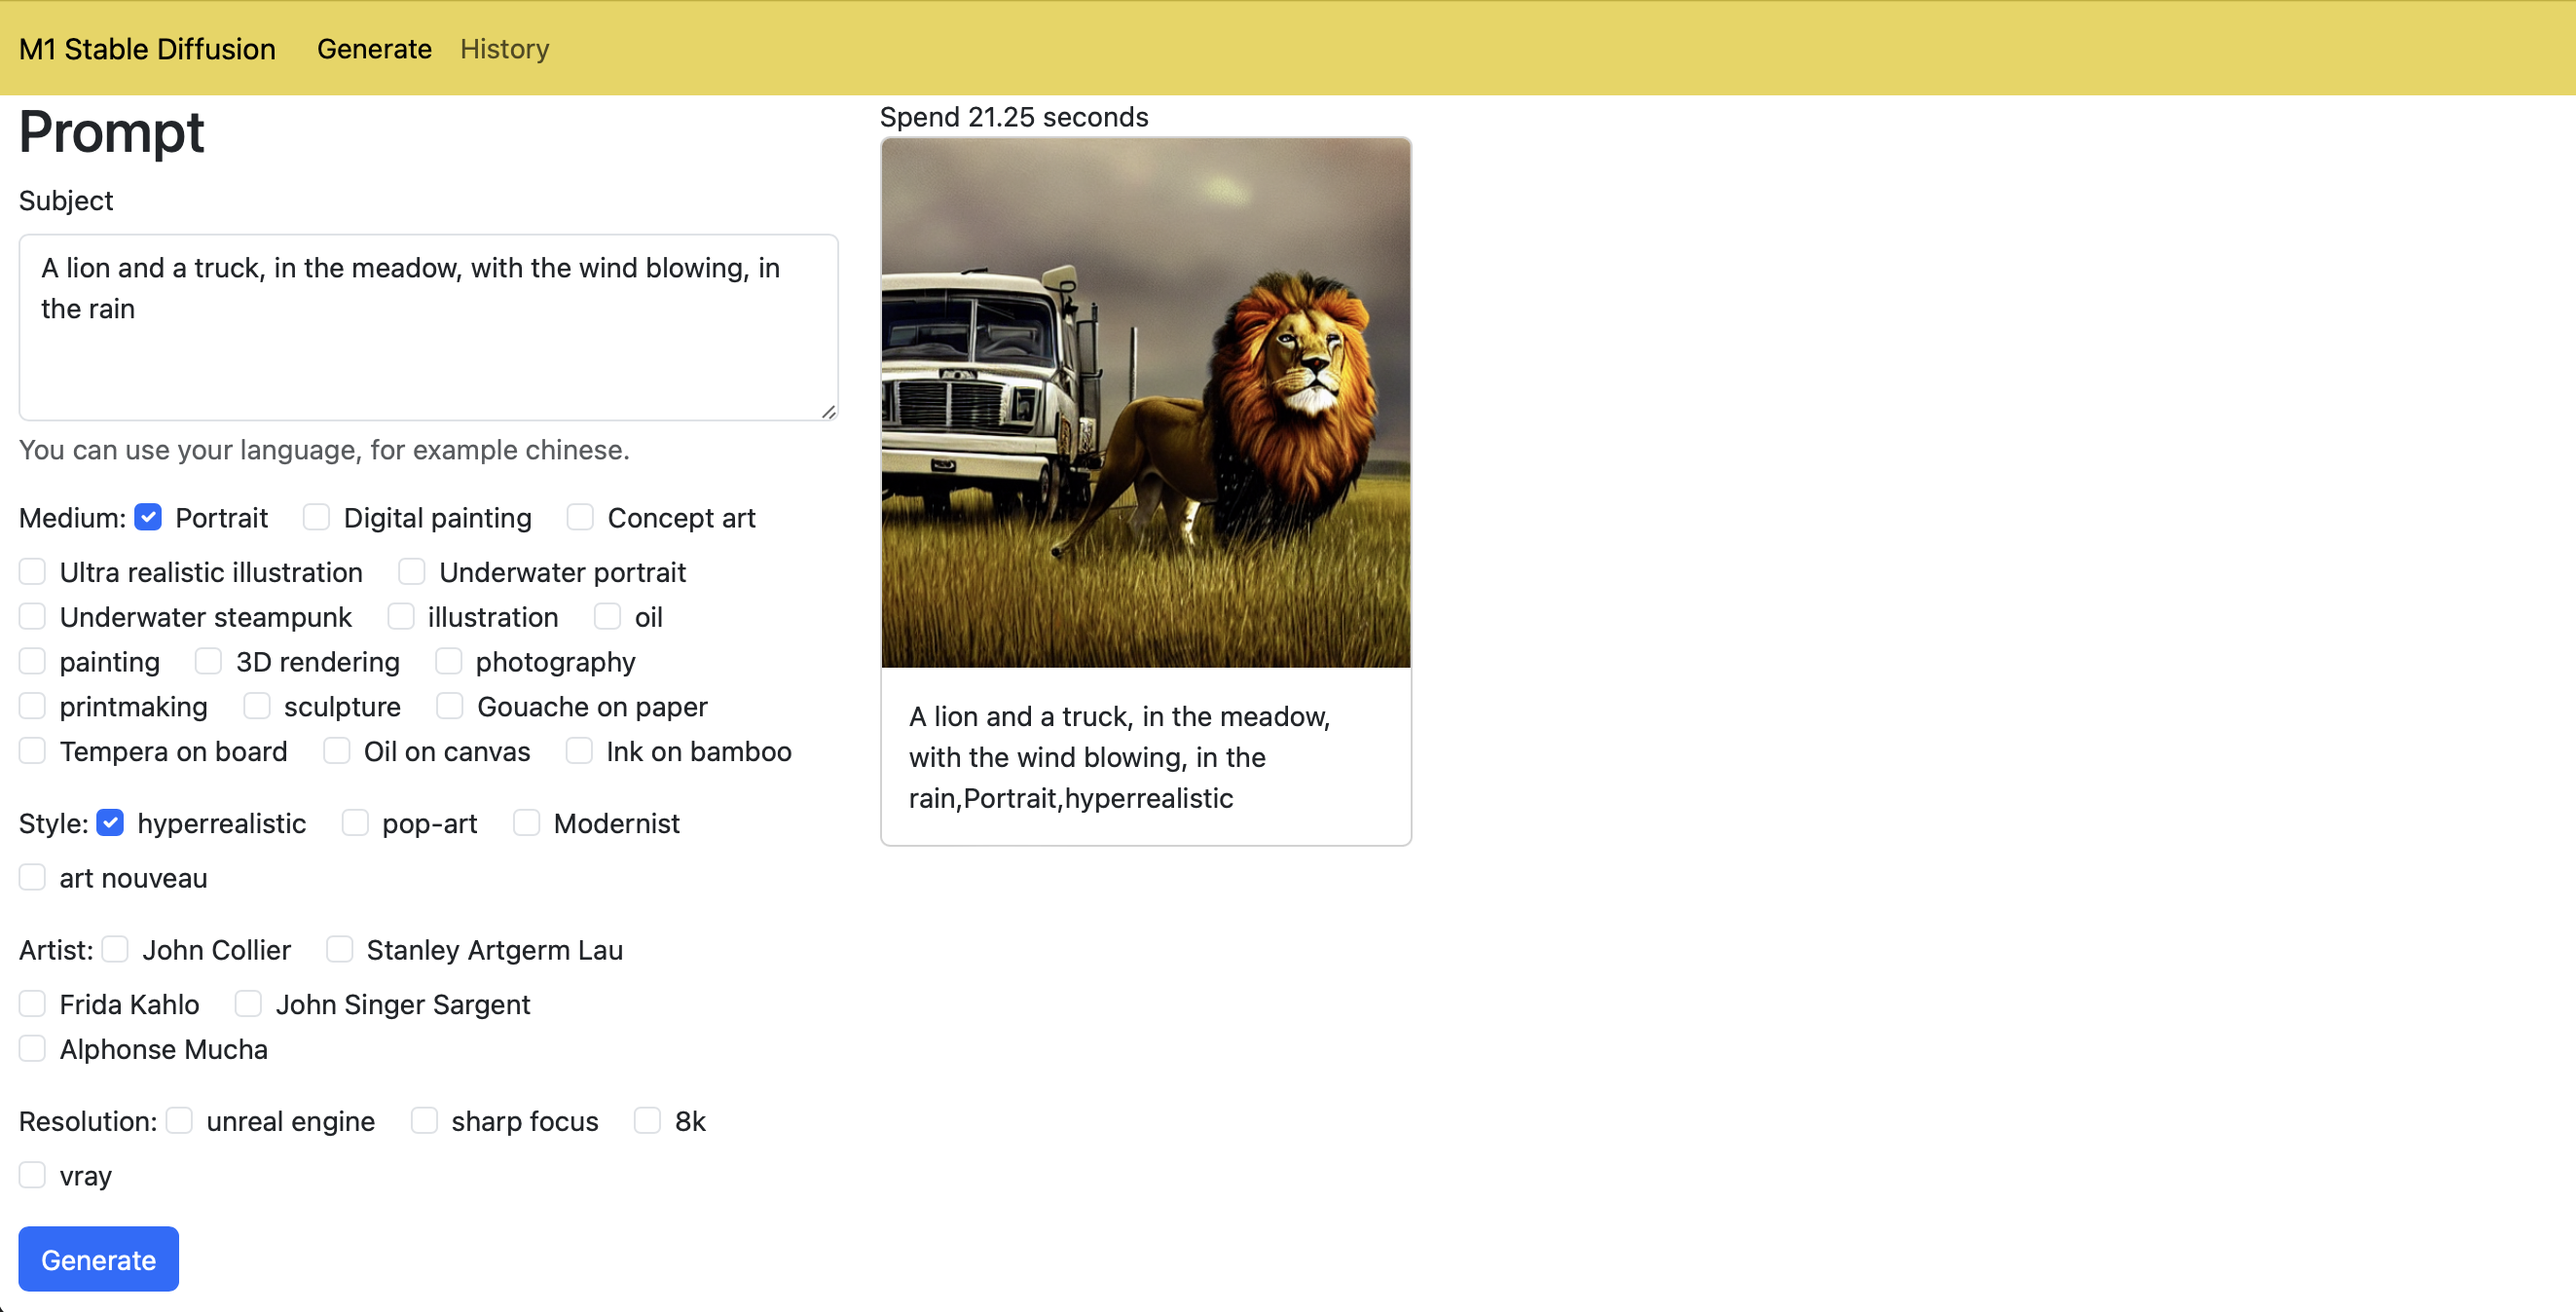
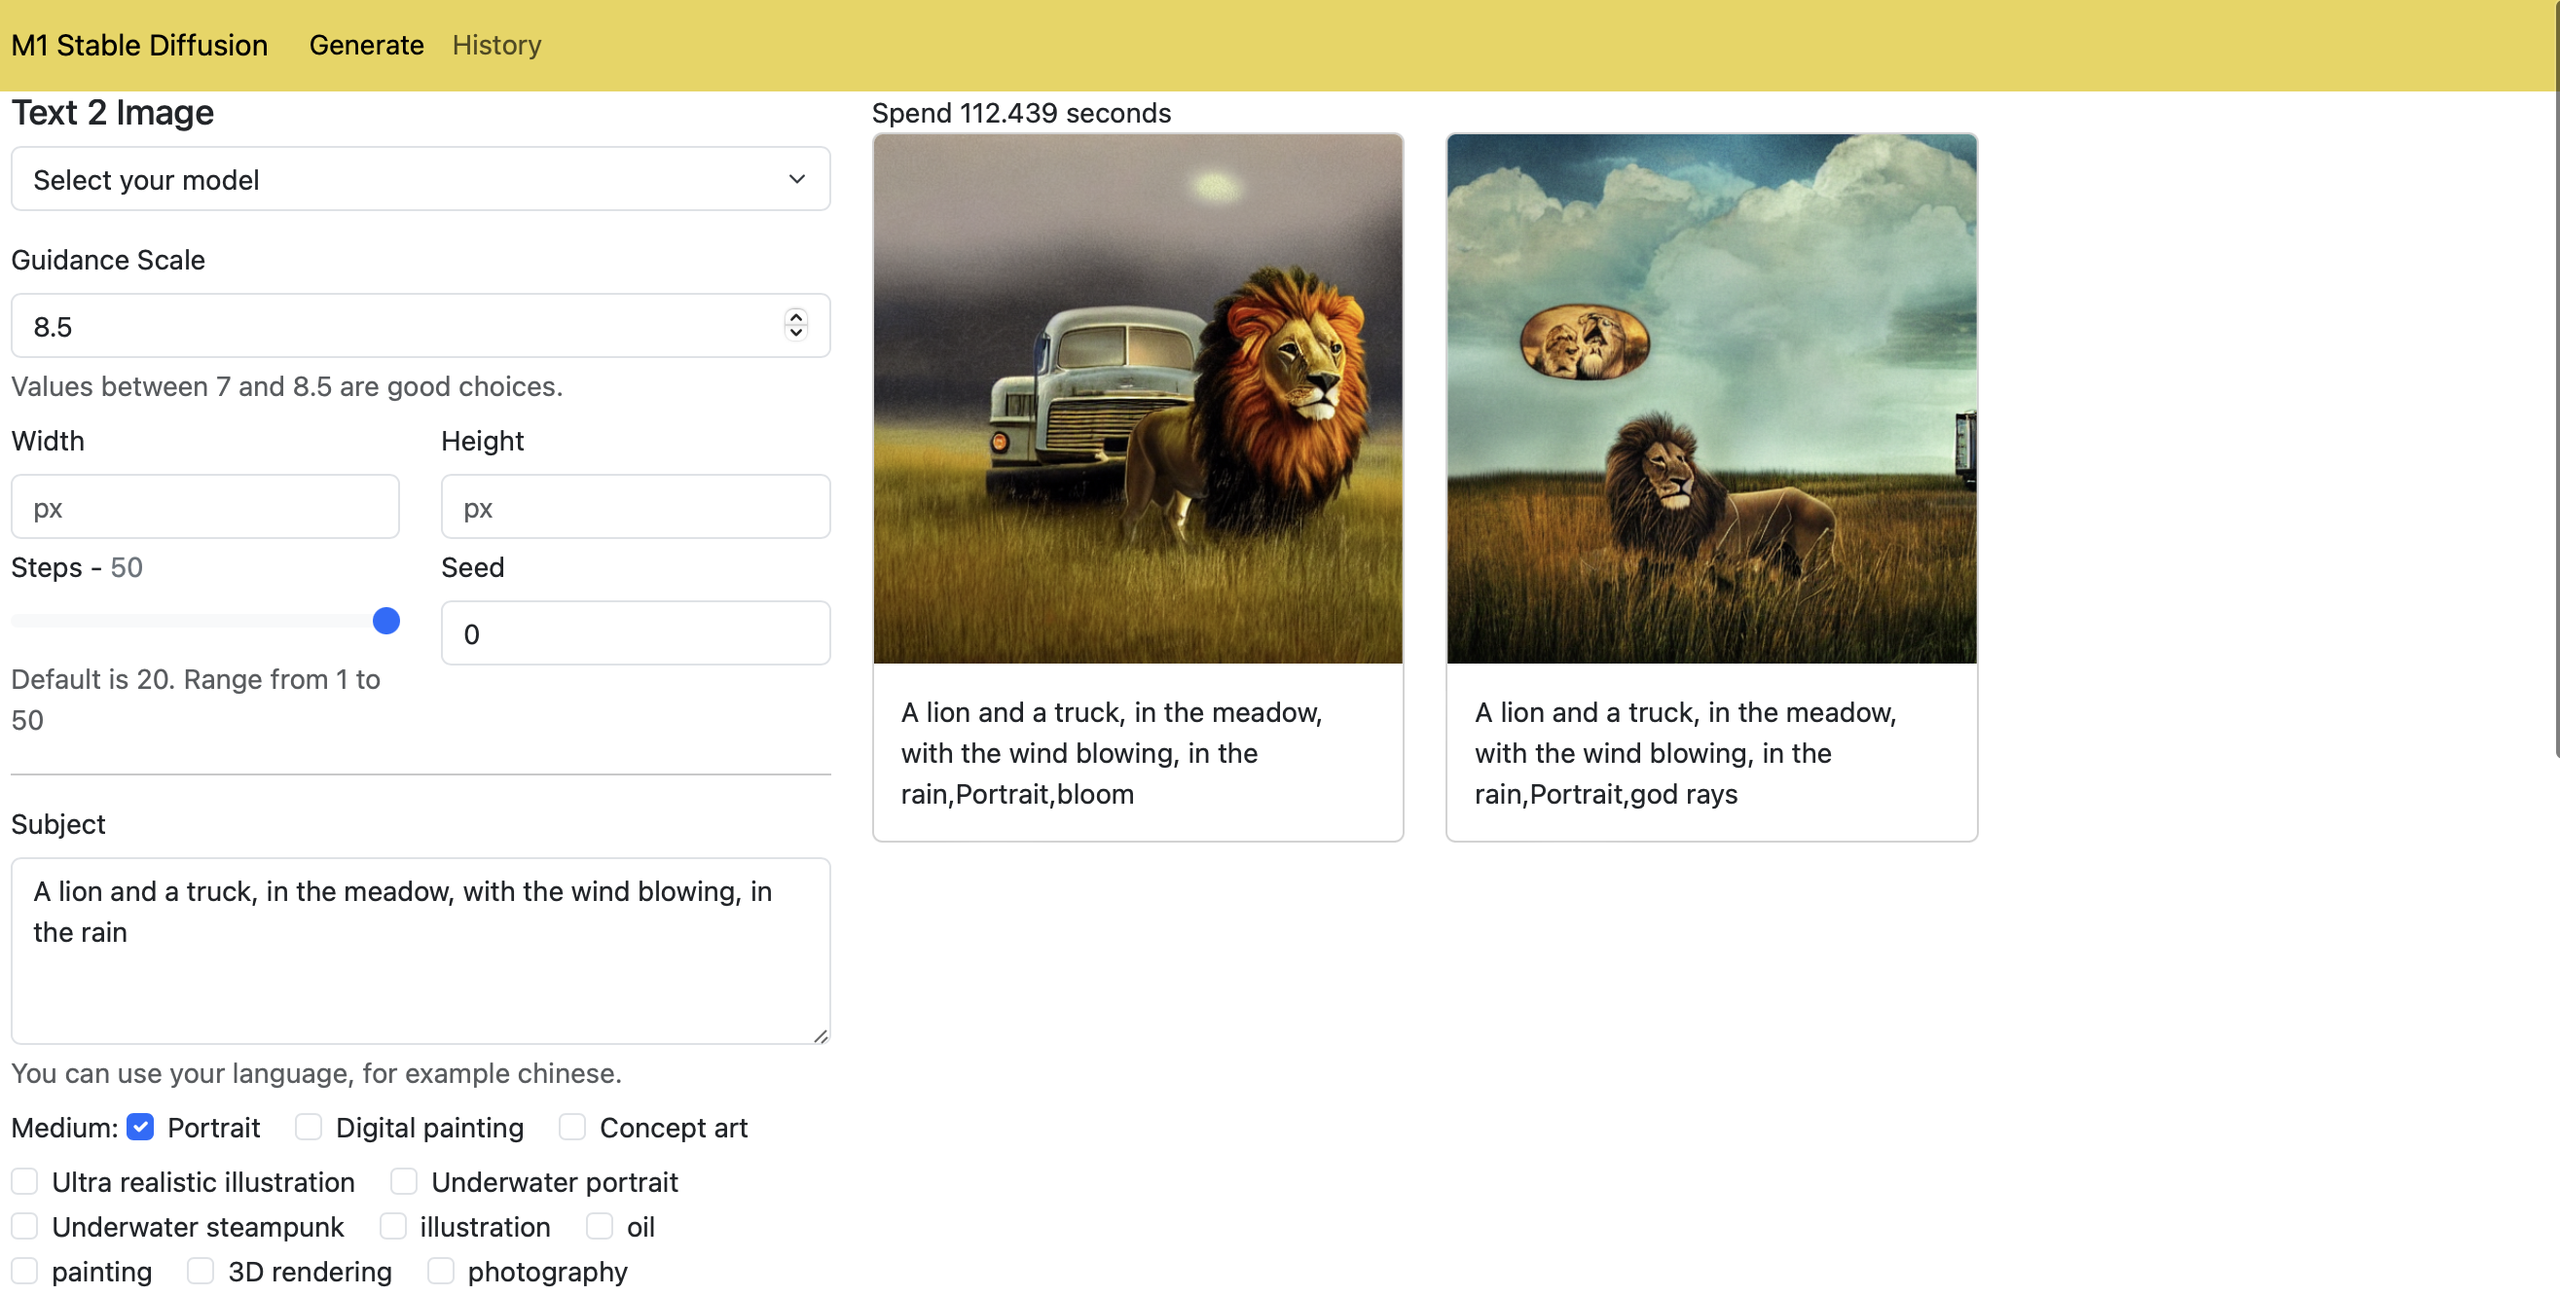
big updates. support lighting and more control parameters.

diff --git a/stable_diffusion_webui/stable_diffusion_webui/templates/index.html b/stable_diffusion_webui/stable_diffusion_webui/templates/index.html
@@ -12,13 +12,59 @@ Generate Image
 
 <div class="row">
     <div class="col-4">
-        <h1>Prompt</h1>
-        <form id="generateForm">
+        <h4>Text 2 Image</h4>
+        <form id="generateForm" class="form">
             <div class="mb-3">
+                <select class="form-select" name="model_id">
+                    <option value="" selected>Select your model</option>
+                    {% for model_id in model_ids %}
+                    <option value="{{ model_id }}">{{ model_id }}</option>
+                    {% endfor %}
+                </select>
+            </div>
+            <div class="mb-2">
+                <label class="form-label">Guidance Scale</label>
+                <input type="number" name="guidance_scale" value="7.5" class="form-control" />
+                <div class="form-text">Values between 7 and 8.5 are good choices.</div>
+            </div>
+            <div class="row">
+                <div class="col-6">
+                    <div class="mb-1">
+                        <label class="form-label">Width</label>
+                        <input type="integer" class="form-control" name="width" placeholder="px" />
+                    </div>
+                </div>
+                <div class="col-6">
+                    <div class="mb-1">
+                        <label class="form-label">Height</label>
+                        <input type="integer" class="form-control" name="height" placeholder="px" />
+                    </div>
+                </div>
+            </div>
+            <div class="row">
+                <div class="col-6">
+                    <div class="mb-1">
+                        <label class="form-label" id="stepsLabel">Steps</label>
+                        <input type="range" class="form-range" name="steps" value="20" max="50" min="1" step="1" />
+                        <div class="form-text">Default is 20. Range from 1 to 50</div>
+                    </div>
+                </div>
+                <div class="col-6">
+                    <div class="mb-1">
+                        <label class="form-label">Seed</label>
+                        <input type="integer" class="form-control" name="seed" value="0" />
+                    </div>
+                </div>
+            </div>
+
+            <hr />
+            
+            <div class="mb-2">
                 <label class="form-label">Subject</label>
                 <textarea class="form-control" rows="4" name="subject"></textarea>
                 <div class="form-text">You can use your language, for example chinese.</div>
             </div>
+
             {% for item in options_list %}
                 {% multiple_check item.input_id item.name item.options %}
             {% endfor %}
@@ -35,6 +81,7 @@ Generate Image
 
 <script>
 $(document).ready(function(e){
+    //bind form submit event
     $("#generateForm").bind("submit", function(e) {
 
         var form = $("#generateForm");
@@ -53,7 +100,13 @@ $(document).ready(function(e){
                 o[this.name] = [this.value || ""];
             }
         });
+        o['model_id'] = o['model_id'][0];
         o['subject'] = o['subject'][0];
+        o['seed'] = parseInt(o['seed'][0]);
+        o['steps'] = parseInt(o['steps'][0]);
+        o['guidance_scale'] = parseFloat(o['guidance_scale'][0]);
+        o['width'] = parseInt(o['width'][0]);
+        o['height'] = parseInt(o['height'][0]);
         console.debug("request body ", o);
         // send request
         addLoading("loader");
@@ -85,15 +138,27 @@ $(document).ready(function(e){
 
         return false;
     });
+    //bind range change event
+    $("input[name='steps']").bind("change", function(e) {
+        let steps = $("input[name='steps']").val();
+        console.debug("steps is ", steps);
+        let content = [
+            "Steps - ",
+            "<small class='text-secondary'>" + steps + "</small>"
+        ].join("");
+        $("#stepsLabel").html(content);
+    });
 });
 
 function addLoading(containerId) {
     let html = [
-        '<div class="alert alert-primary mb-2" role="alert">',
+        '<div class="mb-3">',
+        '<div class="alert alert-primary" role="alert">',
         '  <div class="spinner-border text-primary" role="status">',
         '    <span class="visually-hidden">Loading...</span>',
         '  </div>',
         '</div>',
+        '</div>'
     ].join("");
     $("#" + containerId).html(html);
 }

diff --git a/stable_diffusion_webui/stable_diffusion_webui/templates/tags/multiple_check.html b/stable_diffusion_webui/stable_diffusion_webui/templates/tags/multiple_check.html
@@ -1,4 +1,4 @@
-<div class="mb-3">
+<div class="mb-1">
     <label class="form-label">{{ label }}: </label>
     
     {% for opt in options %}

diff --git a/stable_diffusion_webui/stable_diffusion_webui/views.py b/stable_diffusion_webui/stable_diffusion_webui/views.py
@@ -13,14 +13,9 @@ from itertools import combinations
 from diffusers import StableDiffusionPipeline, DPMSolverMultistepScheduler
 
 from .models import Prompt, GenerateRequest
-from .utils import medium_options, style_options, artist_options, resolution_options, \
+from .utils import medium_options, style_options, artist_options, resolution_options, light_options, \
     list_to_matrix, do_paginator, translate_chinese_to_english
 
-
-pipe = StableDiffusionPipeline.from_pretrained("runwayml/stable-diffusion-v1-5")
-pipe = pipe.to("mps")
-pipe.enable_attention_slicing()
-pipe.scheduler = DPMSolverMultistepScheduler.from_config(pipe.scheduler.config)
 
 
 def index(request):
@@ -29,9 +24,11 @@ def index(request):
         {"name": "Style", "input_id": "style", "options": style_options},
         {"name": "Artist", "input_id": "artist", "options": artist_options},
         {"name": "Resolution", "input_id": "resolution", "options": resolution_options},
+        {"name": "Lighting", "input_id": "lighting", "options": light_options},
     ]
     context = {
         "options_list": options_list,
+        "model_ids": settings.MODEL_IDS,
     }
     return render(request, "index.html", context)
 
@@ -90,6 +87,10 @@ def generate_image(request):
                 "lighting": [str],
                 "seed": int,
                 "steps": int,
+                "width": int,
+                "height": int,
+                "model_id": str,
+                "guidance_scale": float,
             } 
     """
     body = json.loads(request.body)
@@ -116,6 +117,11 @@ def generate_image(request):
 
 
 def do_generate_image(body, combs, generate_request):
+    model_id = body.get("model_id", "runwayml/stable-diffusion-v1-5") or "runwayml/stable-diffusion-v1-5"
+    pipe = StableDiffusionPipeline.from_pretrained(model_id)
+    pipe = pipe.to("mps")
+    pipe.enable_attention_slicing()
+    pipe.scheduler = DPMSolverMultistepScheduler.from_config(pipe.scheduler.config)
     generator = torch.Generator("mps").manual_seed(body.get("seed", 0))
 
     prompts = []
@@ -123,8 +129,15 @@ def do_generate_image(body, combs, generate_request):
     for comb in combs:
         comb = list(filter(lambda x: x, comb))
         text = ",".join(comb)
-        image = pipe(text, num_inference_steps=body.get('steps', 20), generator=generator).images[0]
-        file_name = "_".join(list(comb)) + ".png"
+        image = pipe(
+            text, 
+            num_inference_steps=body.get('steps', 20), 
+            generator=generator, 
+            width=body.get('width', 512),
+            height=body.get('height', 512),
+            guidance_scale=body.get('guidance_scale', 7.5)
+            ).images[0]
+        file_name = str(generate_request.id) + "_" + "_".join(list(comb)) + ".png"
         file_name = store.get_valid_name(file_name)
         image.save(store.path(file_name))
         

diff --git a/stable_diffusion_webui/stable_diffusion_webui/management/commands/download_models.py b/stable_diffusion_webui/stable_diffusion_webui/management/commands/download_models.py
@@ -1,0 +1,15 @@
+from django.core.management.base import BaseCommand, CommandError
+from django.conf import settings
+
+from diffusers import StableDiffusionPipeline, DPMSolverMultistepScheduler
+
+
+class Command(BaseCommand):
+    help = "Download all models"
+
+    def handle(self, *args, **options):
+        for model_id in settings.MODEL_IDS:
+            StableDiffusionPipeline.from_pretrained(model_id)
+            self.stdout.write(
+                self.style.SUCCESS('Successfully download "%s"' % model_id)
+            )

diff --git a/stable_diffusion_webui/stable_diffusion_webui/utils.py b/stable_diffusion_webui/stable_diffusion_webui/utils.py
@@ -31,6 +31,7 @@ medium_options = get_prompt_options("medium.csv")
 style_options = get_prompt_options("style.csv")
 artist_options = get_prompt_options("artist.csv")
 resolution_options = get_prompt_options("resolution.csv")
+light_options = get_prompt_options("lighting.csv")
 
 
 def list_to_matrix(items, col):

diff --git a/stable_diffusion_webui/stable_diffusion_webui/settings.py b/stable_diffusion_webui/stable_diffusion_webui/settings.py
@@ -128,3 +128,8 @@ if MEDIA_ROOT.exists() is False:
     MEDIA_ROOT.mkdir(parents=True)
 
 MEDIA_URL = "media/"
+
+MODEL_IDS = [
+    "runwayml/stable-diffusion-v1-5",
+    "stabilityai/stable-diffusion-2-1-unclip",
+]

diff --git a/README.md b/README.md
@@ -2,14 +2,21 @@
 
 An Web UI with intelligent prompts of Stable Diffusion with Core ML on Apple Silicon
 
+
 ![Main Screen](./images/main_screen.png)
 
 ![History Screen](./images/history.png)
 
-Features:
+# Features:
+
 1. Use your language to write prompt, for example chinese.
-2. One submit could generate multiple images.
+2. One submit could generate multiple images. Improve your prompt writing speed.
 3. Support preserve options of medium and style and artist and resolution.
+
+
+We support [runwayml/stable-diffusion-v1-5](https://huggingface.co/runwayml/stable-diffusion-v1-5) and [stable-diffusion-2-1-unclip](https://huggingface.co/stabilityai/stable-diffusion-2-1-unclip) now.
+
+# Install
 
 Requirements:
 1. Python 3.9 or latter
@@ -17,11 +24,7 @@ Requirements:
 3. Django 4.2
 4. Apple M1
 
-We support [runwayml/stable-diffusion-v1-5](https://huggingface.co/runwayml/stable-diffusion-v1-5) now.
-
-# Install
-
-First, run command `./install.sh`
+First, run command `./install.sh`. The script will install python libraries and models.
 
 Open terminal, then run commands below:
 ```
@@ -43,4 +46,5 @@ Use browser to open <http://127.0.0.1:8000/>
 
 - Email: yyaadet@qq.com
 - Weixin MP:
-    ![Weixin MP](./images/weixin_mp.jpg)
+
+        ![Weixin MP](./images/weixin_mp.jpg)
